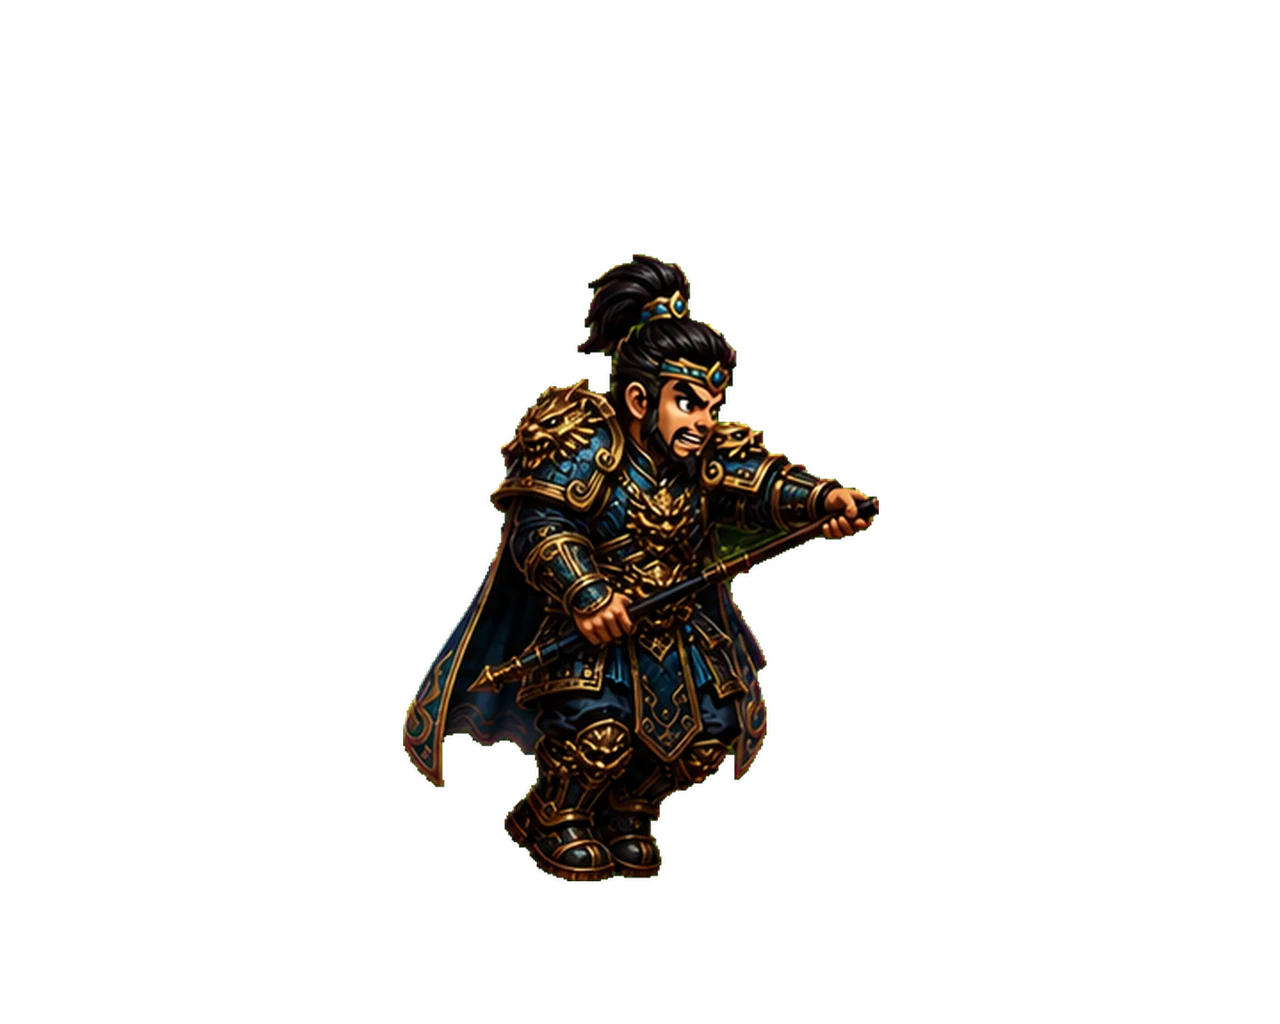
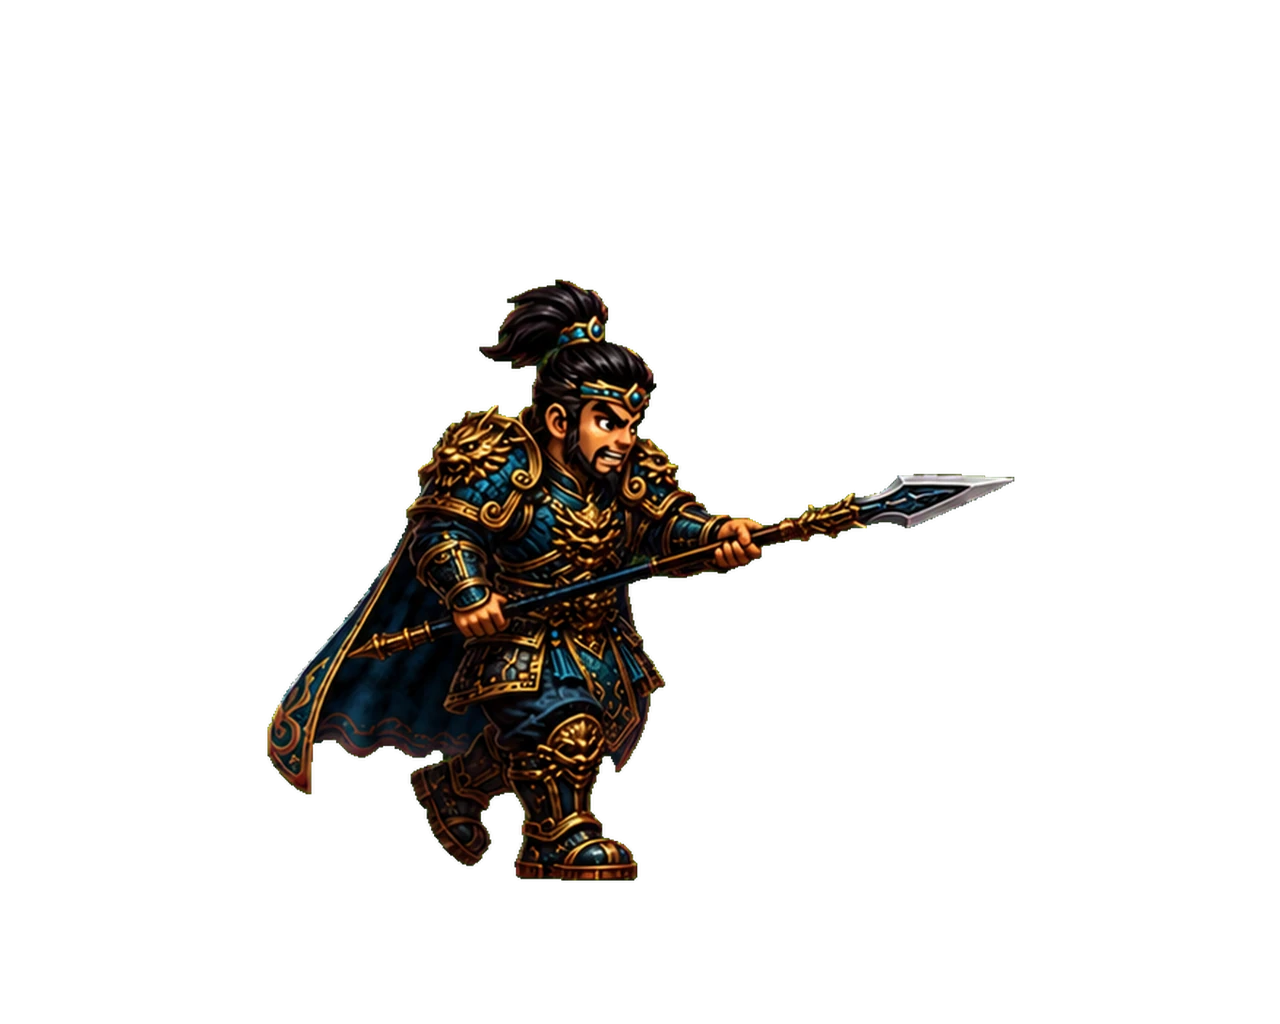
fix(duel): restore taishi ci walk-cycle spear continuity

Changed region(s): [[0.1875, 0.25, 0.7812, 0.875]]

diff --git a/tools/walk_cycle.py b/tools/walk_cycle.py
@@ -29,6 +29,13 @@ import numpy as np
 from PIL import Image
 from scipy import ndimage
 
+# Diagnostic prose contains punctuation unavailable in some Windows cp949
+# consoles.  Reporting must not interrupt the metadata update.
+try:
+    sys.stdout.reconfigure(errors='replace')
+except (AttributeError, OSError):
+    pass
+
 ROOT = os.path.dirname(os.path.dirname(os.path.abspath(__file__)))
 STATES = os.path.join(ROOT, 'assets', 'arcade_duel')
 WALKS3 = ['walk1', 'walk2', 'walk3']
